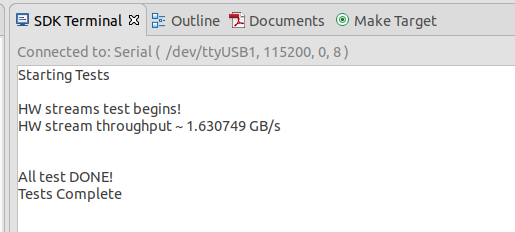
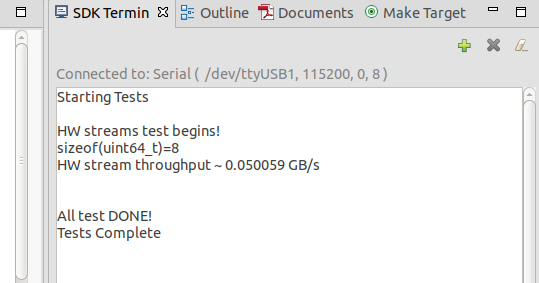
update figures

Changed region(s): [[0.0, 0.0, 1.0, 1.0]]

diff --git a/README.md b/README.md
@@ -129,7 +129,7 @@ and uncoment **#define TEST_MODE SW_THP**. Make the same changes for core1-3.
 
 ![](./images/comment_sw.png)
 
-2. Open kernel0.cc file under **core0->src->kernel0.cc**. Increase **DATA_BYTE_SIZE** from 1024 to 1024000.
+2. Open kernel0.cc file under **core0->src->kernel0.cc**. Increase **DATA_BYTE_SIZE** from 1024 to 409600.
 Make the same changes for core1.
 
 ![](./images/size.png)
@@ -169,9 +169,9 @@ You should see the HW throughput between
 |  2048\*64bits  | 121.2 MB/s |20.71 MB/s  |
 |  5120\*64bits  | 135.0 MB/s |24.48 MB/s  |
 |  10240\*64bits | 155.0 MB/s |34.34 MB/s  |
-| 102400\*64bits | 186.3 MB/s |45.31 MB/s  |
-| 204800\*64bits | 186.3 MB/s |55.67 MB/s  |
-| 409600\*64bits | 186.3 MB/s |54.71 MB/s  |
+| 102400\*64bits | 180.7 MB/s |45.31 MB/s  |
+| 204800\*64bits | 180.7 MB/s |55.67 MB/s  |
+| 409600\*64bits | 180.7 MB/s |54.71 MB/s  |
 
 
 
